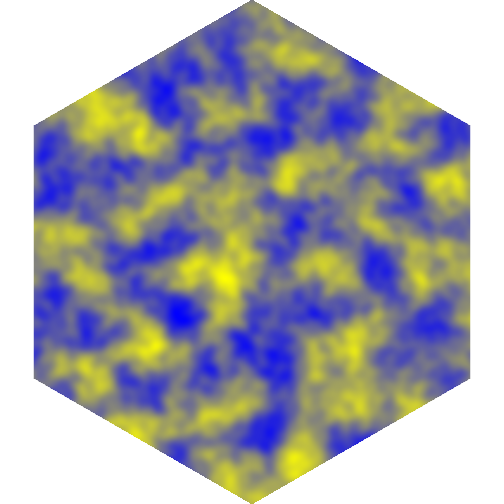
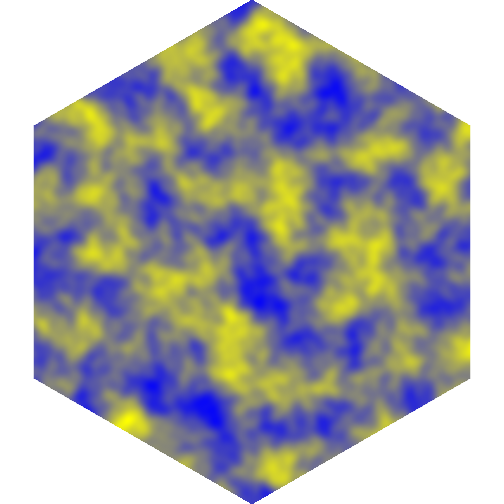
fix: Drop 'seed' argument from 'ambient' pattern
* Probably wasn't the best idea to set the seed within package
* User should `set.seed()` before using `grid.pattern_ambient()`

diff --git a/NEWS.md b/NEWS.md
@@ -8,7 +8,7 @@ gridpattern v0.1
 
   * "regular_polygon" ``grid.pattern_regular_polygon()`` (#20)
 
-* Supports the following patterns from [{ggpattern}](https://github.com/coolbutuseless/ggpattern):
+* Supports the following patterns from [ggpattern](https://github.com/coolbutuseless/ggpattern):
 
   * "ambient" ``grid.pattern_ambient()``  
   * "circle" ``grid.pattern_circle()`` (#5)
@@ -28,8 +28,7 @@ gridpattern v0.1
     * Resolution of "array" patterns is now user-supplied.
       Defaults to 72 DPI but with a minimum of 12 pixel image width and/or height.
     * Default for "pattern_alpha" is now ``NA_real_`` (preserve existing alpha transparency) instead of ``1`` (set to fully opaque).
-    * ``grid.pattern_ambient()`` pattern supports all arguments of the six [ambient](https://cran.r-project.org/package=ambient) 
-      "noise" functions plus a "seed" argument to make them reproducible (for an identical image resolution).
+    * ``grid.pattern_ambient()`` pattern supports all arguments of the six ``{ambient}`` "noise" functions.
     * ``grid.pattern_circle()`` has several enhancements:
 
       * Allows use of the argument ``xoffset`` and ``yoffset`` (#22)

diff --git a/README.md b/README.md
@@ -60,9 +60,7 @@ y_hex <- 0.5 + 0.5 * sin(seq(2 * pi / 4, by = 2 * pi / 6, length.out = 6))
 grid.pattern("ambient", x_hex, y_hex, fill = "blue", fill2 = "yellow")
 ```
 
-```
-## Error in fn(dim = c(height, width)): object '.Random.seed' not found
-```
+![](man/figures/README-ambient-1.png)
 
 ```r
 grid.pattern_circle(x_hex, y_hex, density = 0.7, type = "hex",
@@ -79,14 +77,14 @@ grid.pattern("crosshatch", x_hex, y_hex, colour="black", fill="blue",
 ![](man/figures/README-crosshatch-1.png)
 
 ```r
-grid.pattern("gradient", x_hex, y_hex, fill="blue", fill2="yellow")
+grid.pattern("gradient", x_hex, y_hex, fill = "blue", fill2 = "yellow")
 ```
 
 ![](man/figures/README-gradient-1.png)
 
 ```r
-logo_filename   <- system.file("img", "Rlogo.png" , package="png")
-grid.pattern("image", x_hex, y_hex, filename=logo_filename, type="tile")
+logo_filename   <- system.file("img", "Rlogo.png" , package = "png")
+grid.pattern("image", x_hex, y_hex, filename = logo_filename, type = "tile")
 ```
 
 ![](man/figures/README-image-1.png)
